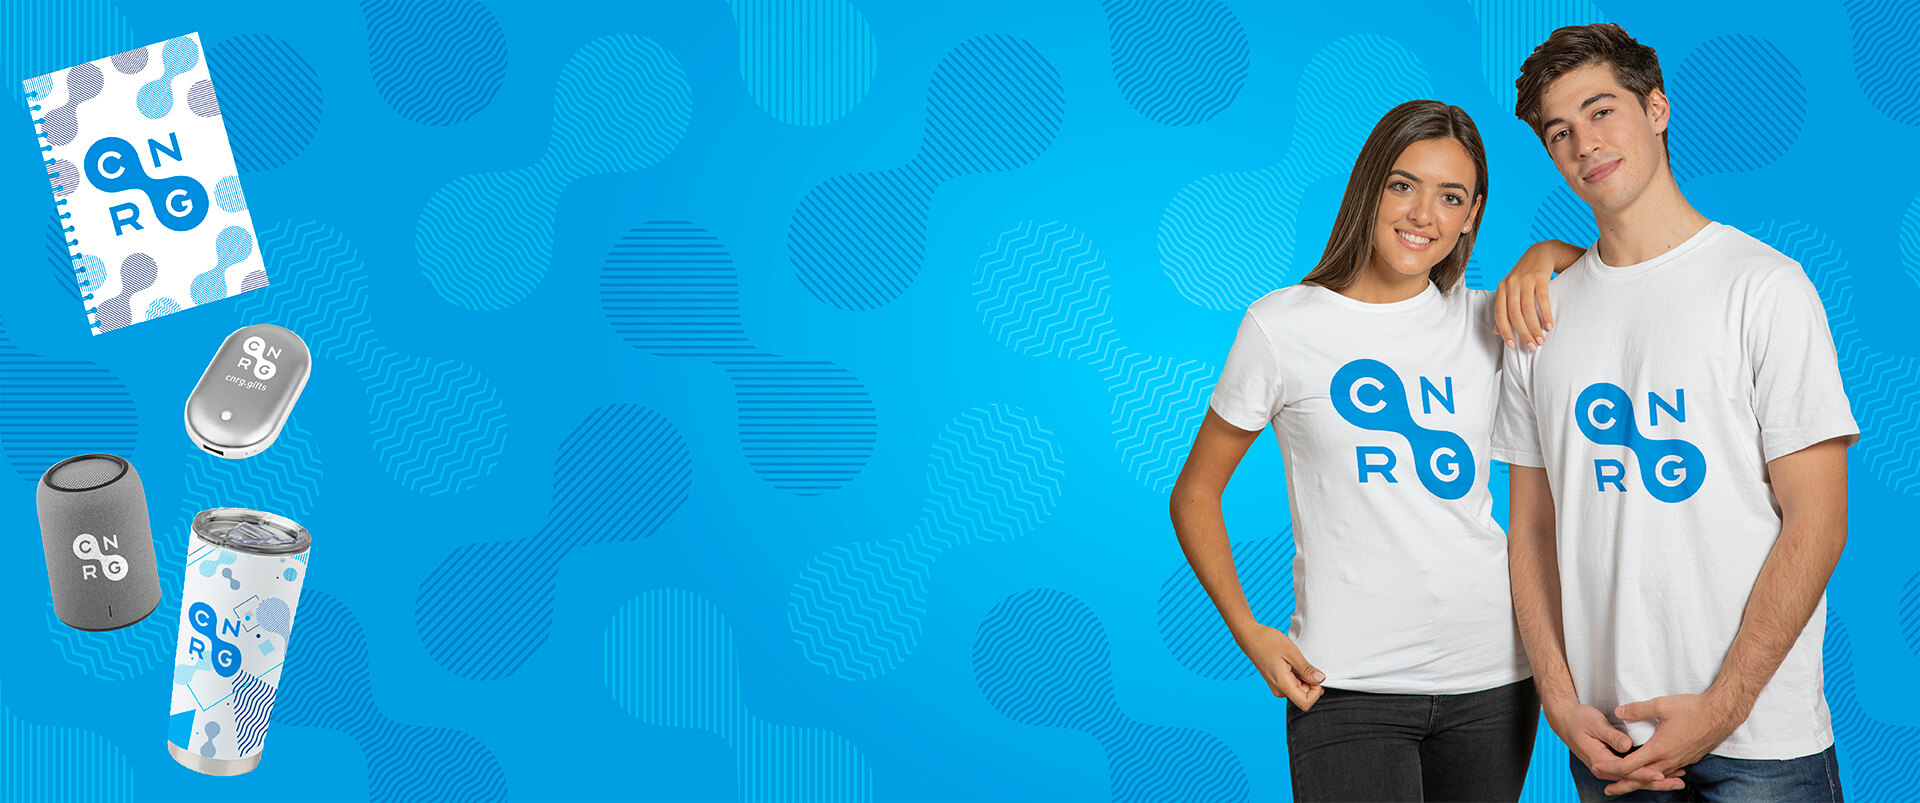
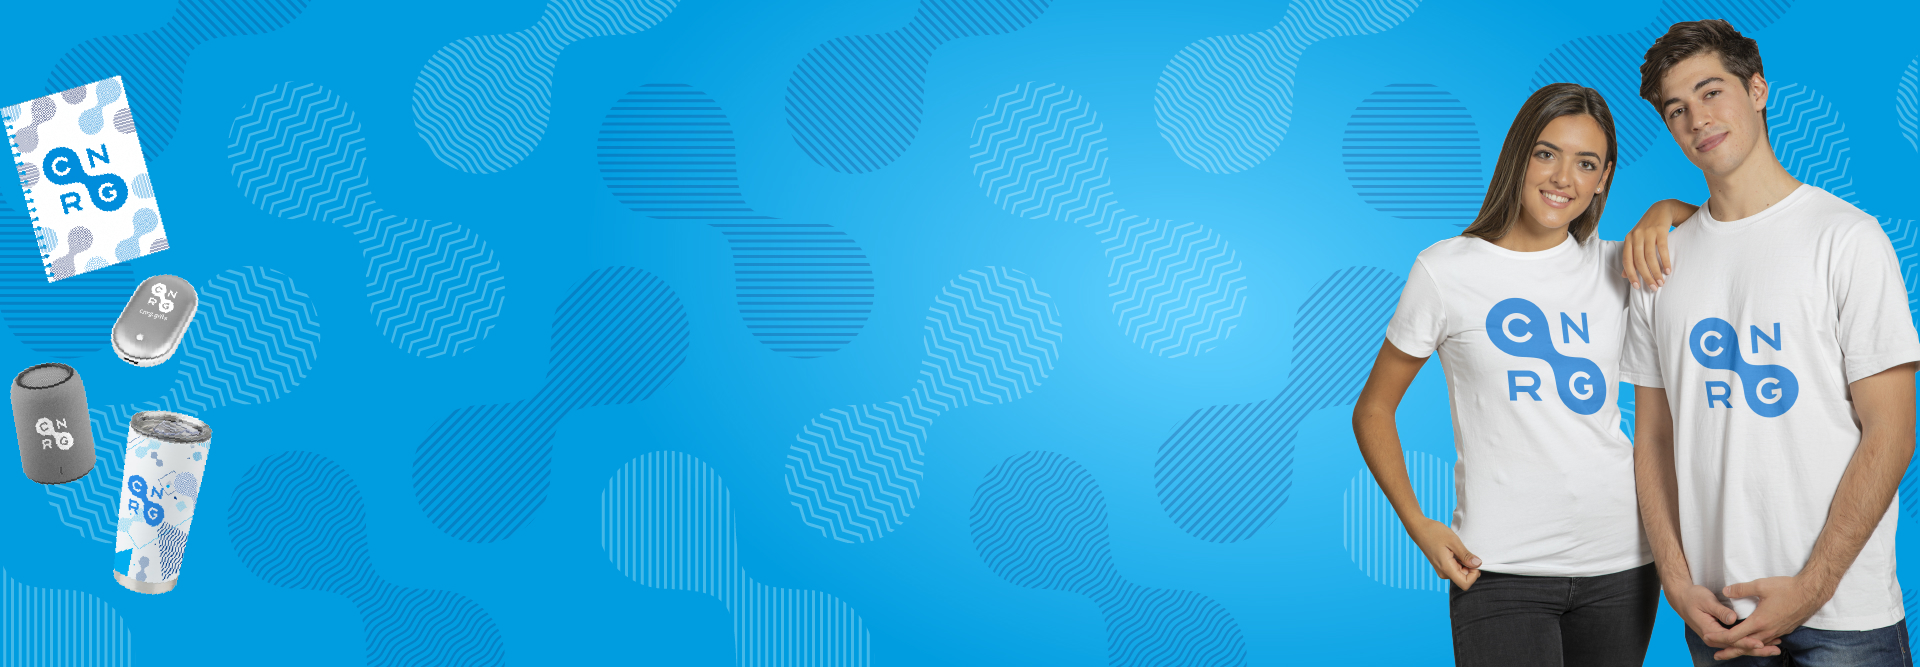
очередные правки, стилизация чекбокса "новая коллекция"

diff --git a/local/templates/eshop_bootstrap_v4/assets/css/style.css b/local/templates/eshop_bootstrap_v4/assets/css/style.css
@@ -498,7 +498,7 @@ a.link:hover,
 .sticky__module {
     position: fixed;
     right: 0px;
-    top: 50%;
+    top: 26%;
     z-index: 9;
     background: #fff;
     box-shadow: 0px 0px 25px -23px #000;
@@ -624,7 +624,7 @@ a.link:hover,
 .banner__section h1 {
     color: #fff;
     font-family: 'DIN Pro Cond';
-    font-size: 52px;
+    font-size: 50px;
     font-style: normal;
     font-weight: 700;
     line-height: 63px;
@@ -775,6 +775,10 @@ form.banner__form-form {
     z-index: 1;
 }
 
+.row.banner__inner-block {
+    width: 83%;
+}
+
 
 /*Trust block */
 
@@ -846,6 +850,10 @@ section.catalog-category__section {
 
 .catalog-category__section .pills__overlay-mobile {
     margin-bottom: 35px;
+}
+
+.product__card-button .button {
+    padding: 12px 15px;
 }
 
 
@@ -1602,11 +1610,15 @@ footer {
     padding-left: 45px;
 }
 
+.footer__catalog .menu__footer:nth-child(2) {
+    width: 59%;
+}
+
 .title__footer {
     text-transform: uppercase;
     font-family: 'DIN Pro Cond';
     font-size: 20px;
-    color: #99D8F3;
+    color: #01aef2;
     font-weight: 600;
     margin-bottom: 15px;
 }
@@ -1627,7 +1639,7 @@ footer {
 }
 
 .footer__logo-block p {
-    color: #99D8F3;
+    color: #01aef2;
     font-weight: 600;
     margin-top: 6px;
 }

diff --git a/local/templates/eshop_bootstrap_v4/components/bitrix/catalog.smart.filter/bootstrap_v4/style.css b/local/templates/eshop_bootstrap_v4/components/bitrix/catalog.smart.filter/bootstrap_v4/style.css
@@ -954,3 +954,31 @@ span.filter__checked-cross:hover {
     background: #01aef2;
     color: #fff;
 }
+
+.smart-filter-parameters-box>div:only-of-type input[type="checkbox"] {
+    display: none;
+}
+
+.smart-filter-parameters-box>div:only-of-type.form-group.form-check {
+    padding-left: 0px;
+    height: auto;
+    margin-bottom: 0px;
+    min-height: auto;
+}
+
+.form-check .smart-filter-checkbox-text.filter__product {
+    border: 1px solid #eee;
+    padding: 0px 20px;
+    margin-bottom: 0px;
+    border-radius: 4px;
+    cursor: pointer;
+    font-size: 16px;
+    height: 42px;
+    display: flex;
+    align-items: center;
+}
+
+.form-check.active .smart-filter-checkbox-text.filter__product {
+    background: #01aef2;
+    color: #fff;
+}

diff --git a/local/templates/eshop_bootstrap_v4/assets/css/responsive.css b/local/templates/eshop_bootstrap_v4/assets/css/responsive.css
@@ -23,7 +23,7 @@
     .container-md,
     .container-sm,
     .container-xl {
-        max-width: 1320px;
+        max-width: 1340px;
     }
 }
 
@@ -94,6 +94,9 @@
 }
 
 @media (max-width: 991px) {
+    .row.banner__inner-block {
+        width: initial;
+    }
     .hits__section .product__card {
         padding: 5px;
     }

diff --git a/about/index.php b/about/index.php
@@ -14,10 +14,8 @@ $APPLICATION->SetTitle("О нас");
         <div class="container">
             <div class="row">
                 <div class="col-lg-12">
-				<div class="img-background" style="background-image:url(/assets/img/team.jpg)">
-                       
-                    </div>
-                   
+                <img src="/assets/img/team.jpg" class="mb-4" width="100%">
+              
 					<? $APPLICATION->IncludeComponent(
 								"bitrix:main.include",
 								"",
